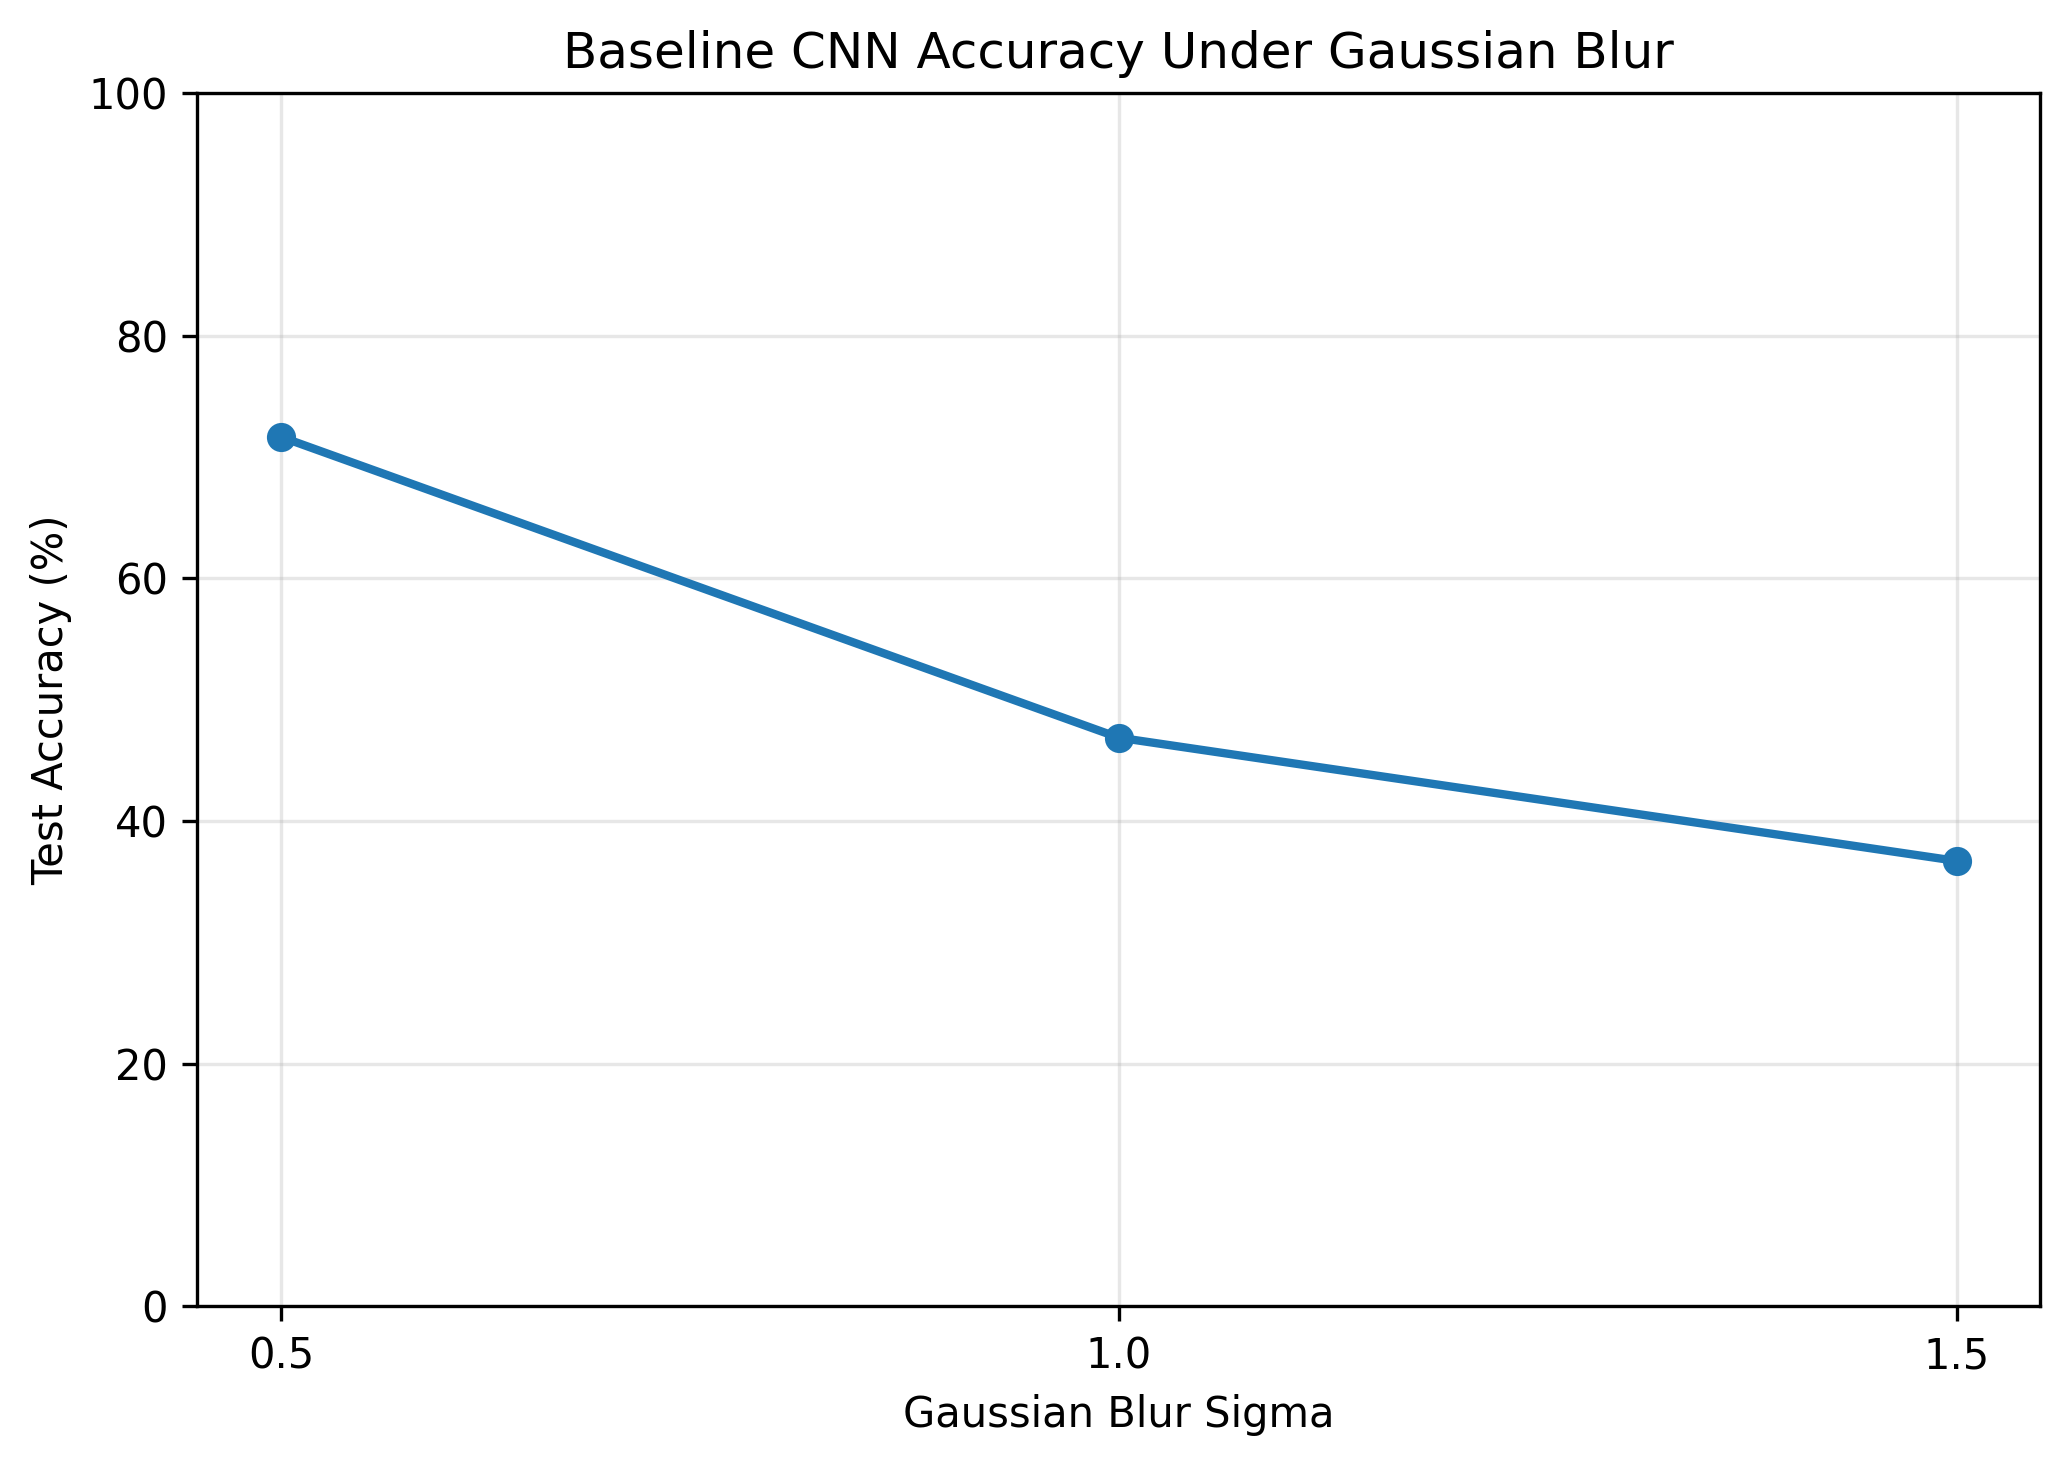
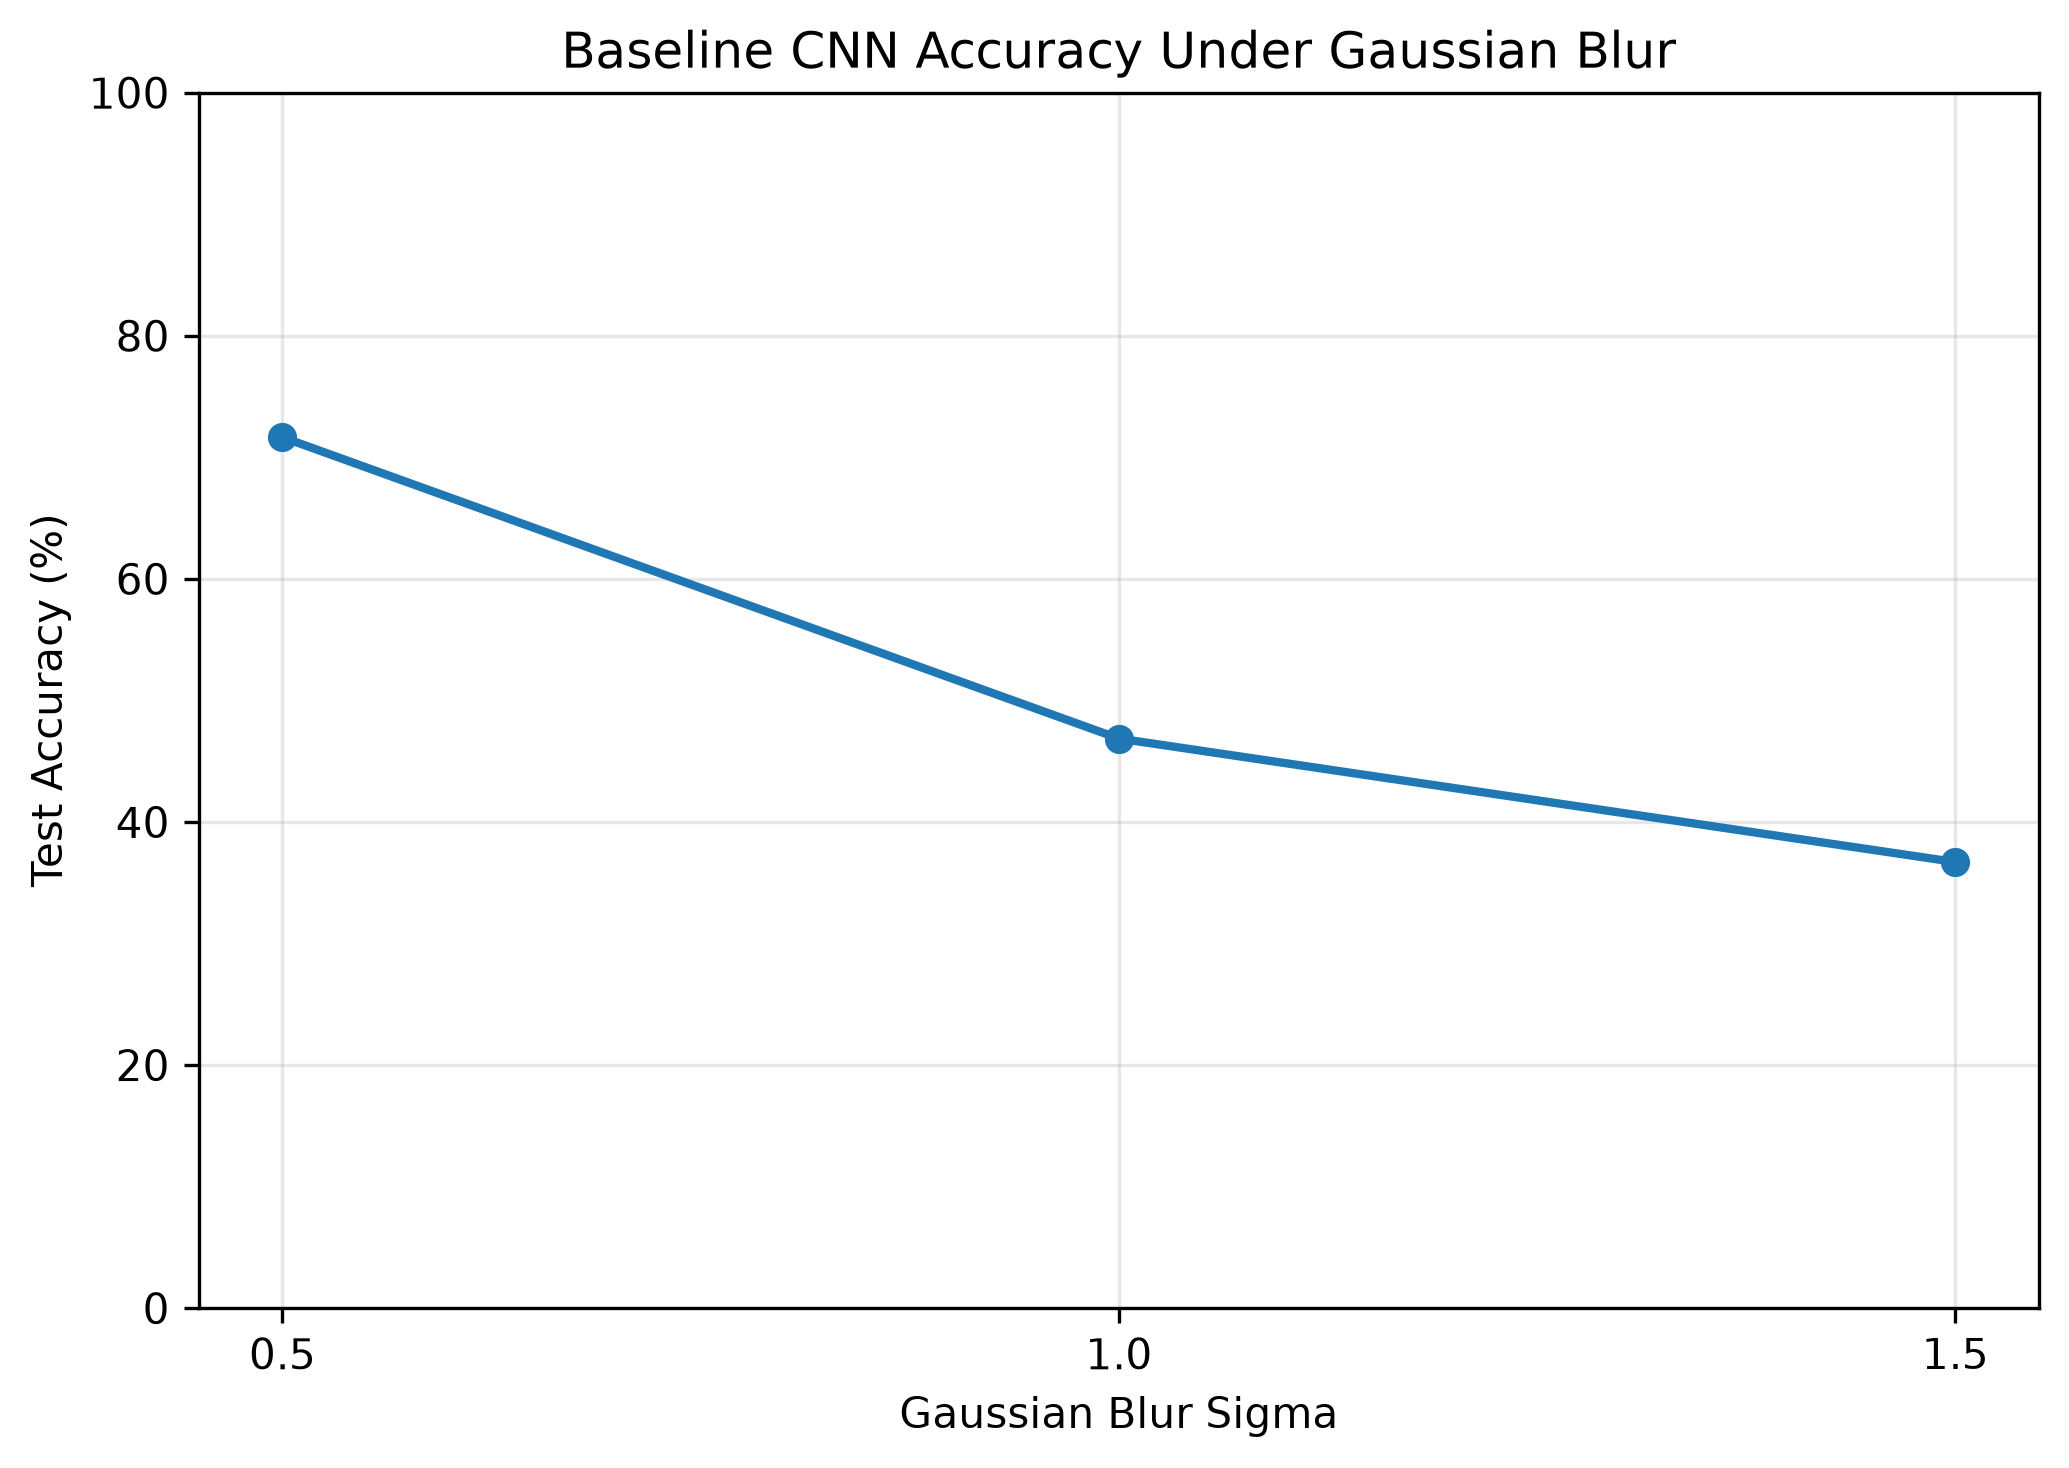
Compare balanced and imbalanced class performance

diff --git a/src/plot_results.py b/src/plot_results.py
@@ -78,26 +78,49 @@ plt.savefig(
 plt.close()
 
 
-# 3. Per-class accuracy after imbalanced training
-plt.figure(figsize=(9, 5))
+# 3. Balanced vs imbalanced per-class accuracy
+
+plt.figure(figsize=(10, 5))
+
+x = range(len(classes))
+width = 0.35
 
 plt.bar(
-    class_names,
-    classes["accuracy"]
+    [i - width / 2 for i in x],
+    classes["balanced_accuracy"],
+    width=width,
+    label="Balanced Training"
+)
+
+plt.bar(
+    [i + width / 2 for i in x],
+    classes["imbalanced_accuracy"],
+    width=width,
+    label="Imbalanced Training"
 )
 
 plt.xlabel("CIFAR-10 Class")
 plt.ylabel("Test Accuracy (%)")
-plt.title("Per-Class Accuracy After Imbalanced Training")
+plt.title("Balanced vs Imbalanced Per-Class Accuracy")
+
+plt.xticks(
+    x,
+    classes["class"],
+    rotation=30,
+    ha="right"
+)
+
 plt.ylim(0, 100)
-plt.xticks(rotation=30, ha="right")
+plt.legend()
 plt.grid(axis="y", alpha=0.3)
 plt.tight_layout()
+
 plt.savefig(
-    "results/imbalanced_per_class_accuracy.png",
+    "results/balanced_vs_imbalanced.png",
     dpi=300,
     bbox_inches="tight"
 )
+
 plt.close()
 
 
